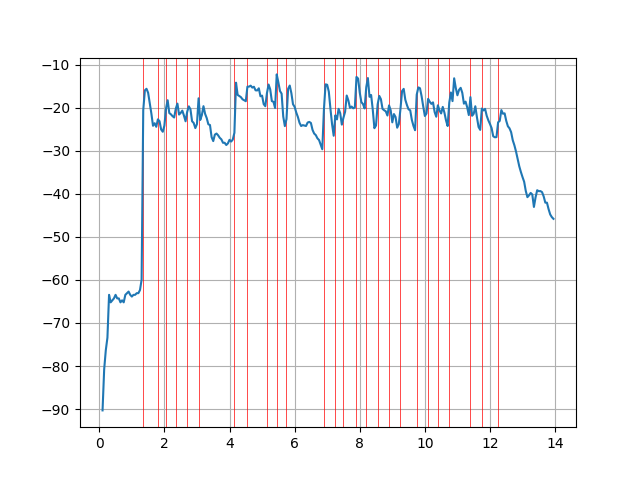
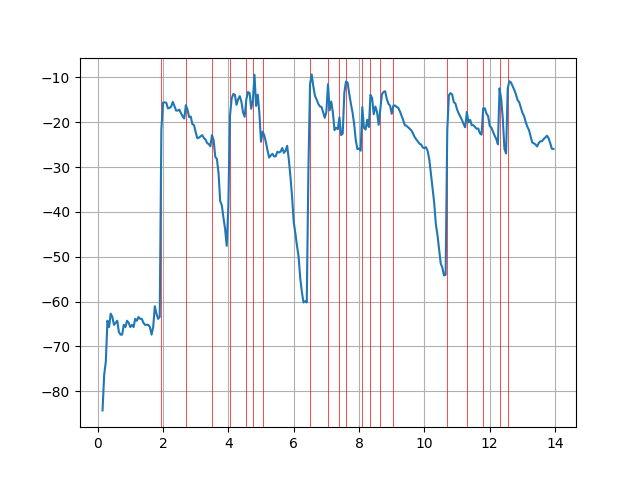
decoupled the config

diff --git a/bach.py b/bach.py
@@ -3,22 +3,26 @@ import matplotlib.pyplot as plt
 import numpy as np
 import sys
 from scipy.io.wavfile import read
+import argparse
+import configparser
 
-#console args
-if(len(sys.argv) != 2):
-    print("invalid input")
-    exit(0)
-else:
-    fileName = str(sys.argv[1])
+parser = argparse.ArgumentParser()
+config = configparser.ConfigParser()
+parser.add_argument("-af", "--audioFile", help="Audio File Path")
+parser.add_argument("-c", "--config", help="the path of the config file")
+args = parser.parse_args()
+fileName = args.audioFile
+config.read(args.config)
+c = config['DEFAULT']
 
 #tweakable parameters
-MIN_VOL = -30   #minimum volume for loudness detection in dBFS
-MIN_DEL = 1.5   #minimum delta in volume value to count as a peak wrt prev block
-MIN_GAP_MS = 200    #after detecting a peak, ignore any fluctuation in this gap window.
-SEGMENT_MS = 50     #discretize the audio in blocks to calculate volume per block, in ms.
+MIN_VOL = float(c.get('MIN_VOL', -30))  #minimum volume for loudness detection in dBFS
+MIN_DEL = float(c.get('MIN_DEL', 1.5)) #minimum delta in volume value to count as a peak wrt prev block
+MIN_GAP_MS = int(c.get('MIN_GAP_MS', 200))  #after detecting a peak, ignore any fluctuation in this gap window.
+SEGMENT_MS = int(c.get('SEGMENT_MS', 50))   #discretize the audio in blocks to calculate volume per block, in ms.
 
-MIN_FREQ_NUMBER = 21 #A0
-MAX_FREQ_NUMBER = 108 #C8
+MIN_FREQ_NUMBER = int(c.get('MIN_FREQ_NUMBER', 21)) #default:A0
+MAX_FREQ_NUMBER = int(c.get('MAX_FREQ_NUMBER', 108)) #default:C8
 NOTE_NAMES = 'C C# D D# E F F# G G# A A# B'.split()
 
 #Inspired From: https://newt.phys.unsw.edu.au/jw/notes.html
@@ -32,11 +36,11 @@ def note_name(n): return NOTE_NAMES[n % 12] + str(int(n/12 - 1))
 #imax = min(SAMPLES_PER_FFT, int(np.ceil(note_to_fftbin(NOTE_MAX+1))))
 
 #find onset by finding peaks in volume of the sample
-#Could be improved my more noise reduction and curve smoothening 
+#Could be improved my more noise reduction and curve smoothening
 #But the fundamental problem is it will not detect all peaks.
 #We can tune the variables like MIN_GAP_MS etc for a particular
 #recording but it will fail to give all peaks.
-#TODO: implement a better way of finding note onset by using 
+#TODO: implement a better way of finding note onset by using
 #fft to find peaks in the frequency domain not time.
 def findOnsetByVolume(volume):
     onsets = []
@@ -49,24 +53,24 @@ def findOnsetByVolume(volume):
     return onsets
 
 def identifyNote(audioFrame, sampleRate):
-    frameSize = len(audioFrame) 
+    frameSize = len(audioFrame)
     framesPerFFT = 1   #number of frames to take avg in fft
     samplesPerFFT = frameSize*framesPerFFT
     freqStep = float(sampleRate)/samplesPerFFT
-    
+
     imin = max(0, int(np.floor(number_to_freq(MIN_FREQ_NUMBER-1)/freqStep)))
     imax = min(samplesPerFFT, int(np.ceil(number_to_freq(MAX_FREQ_NUMBER+1)/freqStep)))
-    
+
     hanningWindow = 0.5 * (1 - np.cos(np.linspace(0, 2*np.pi, samplesPerFFT, False)))
     buf = np.zeros(samplesPerFFT, dtype=np.float32)
     buf[-frameSize:] = audioFrame
-    
+
     #FFT the the windowed buffer
     fft = np.fft.rfft(buf * hanningWindow)
 
     # Get frequency of maximum response in range
     freq = (np.abs(fft[imin:imax]).argmax() + imin) * freqStep
-    
+
     # Get note number and nearest note
     n = freq_to_number(freq)
     n0 = int(round(n))
@@ -90,12 +94,12 @@ def main():
             end = len(audio)-1
         else:
             end = int(onsets[i+1]*(sampleRate/1000))
-        fs = end-start 
+        fs = end-start
         audioFrame = audio[start:start+fs]
         f, n = identifyNote(audioFrame, sampleRate)
         notes.append(note_name(n))
         #print("i: {:^4} freq: {:>5} num: {:>5}".format(i,f, note_name(n)))
-    
+
     print(notes)
     #for s in actual_notes:
         #plt.axvline(x=s, color='r', linewidth=0.5, linestyle="-")
@@ -104,7 +108,8 @@ def main():
     x_axis = np.arange(len(volume)) * (SEGMENT_MS / 1000)
     plt.plot(x_axis, volume)
     plt.grid(True)
-    plt.savefig("OnsetDetection")
+    plt.show()
+    #plt.savefig("OnsetDetection")
 
 if __name__ == "__main__":
     main()

diff --git a/README.md b/README.md
@@ -2,8 +2,8 @@
 Install the dependencies using:
 `pip install -r requirements.txt`
 
-Run it on wav files:
-`python bach.py test/test2/melody-1.wav`
+Run it on wav files by providing the path of the audio file and the config:
+`python bach.py -af=test/test1/melody-2.wav -c=mel2.config`
 
 The image file contains detected note onsets vs loudness graph.
 Inspired from: https://holometer.fnal.gov/GH_FFT.pdf
